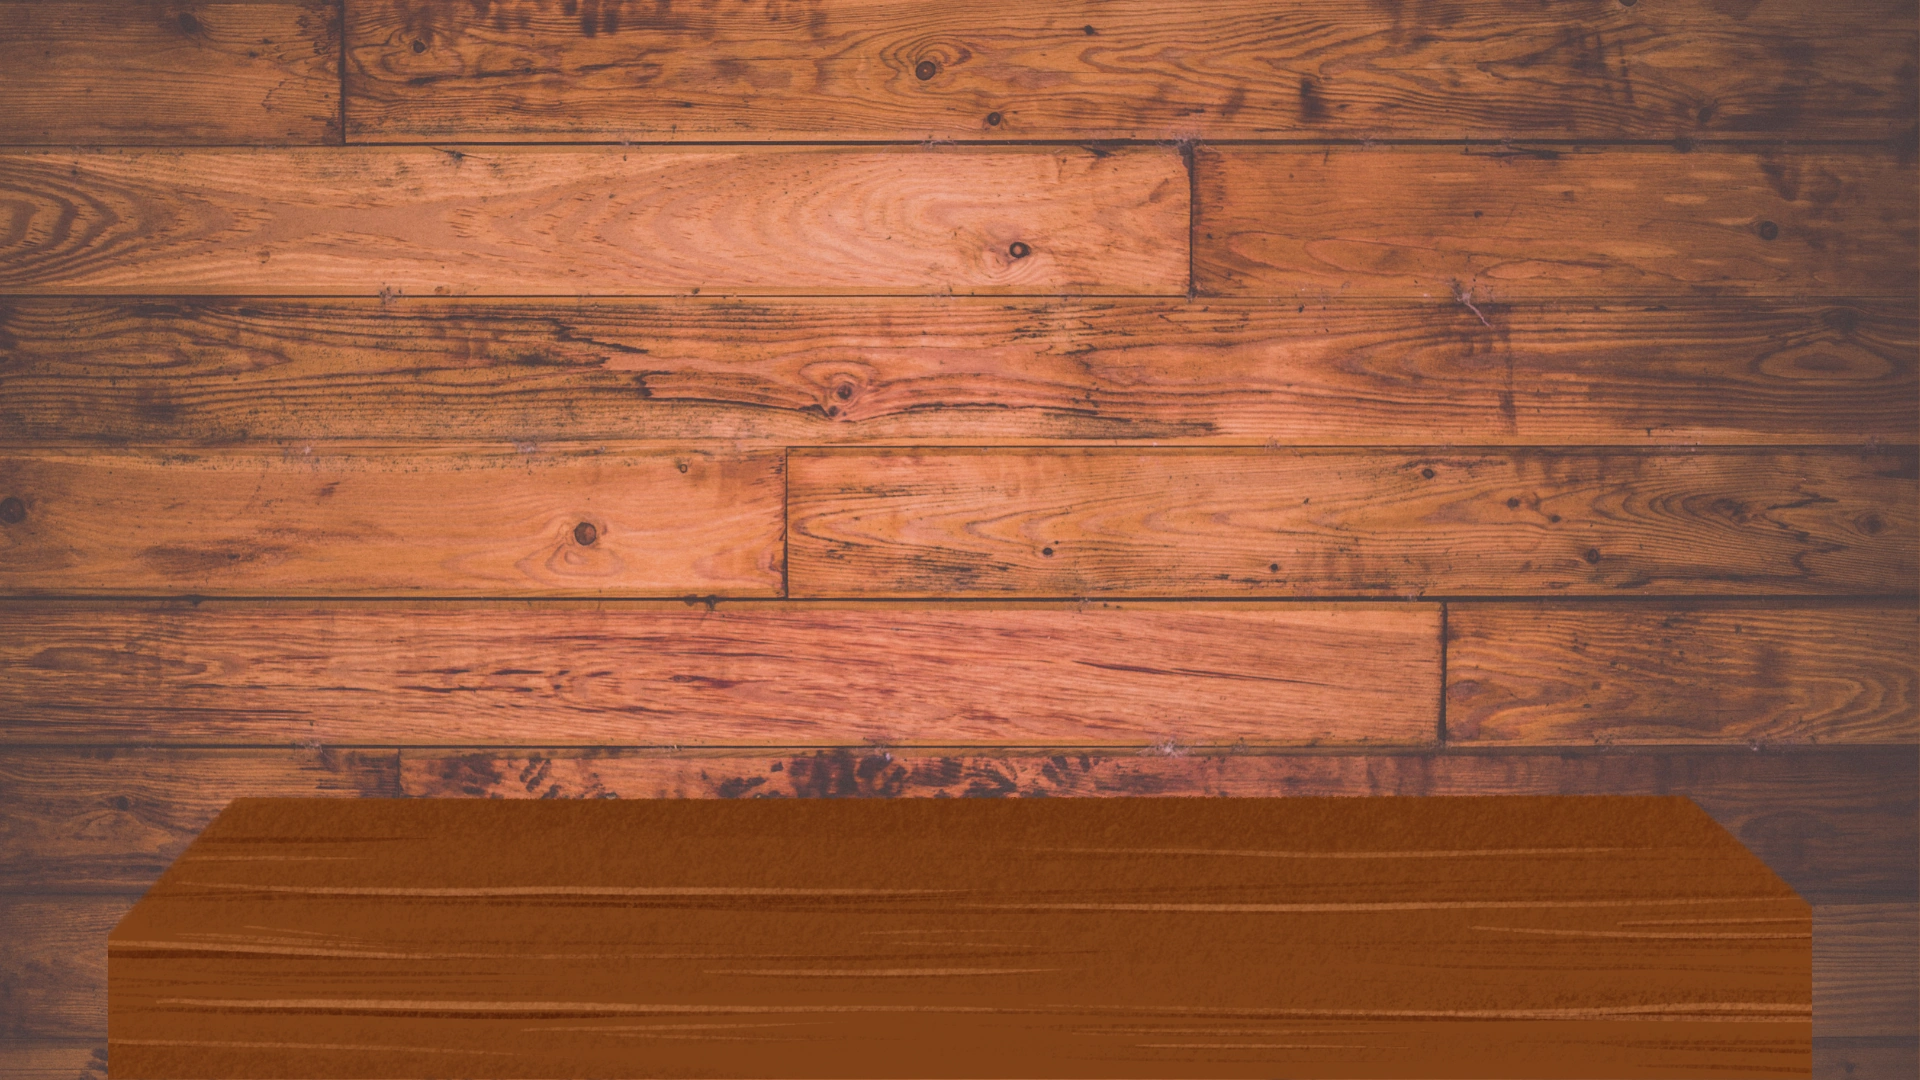
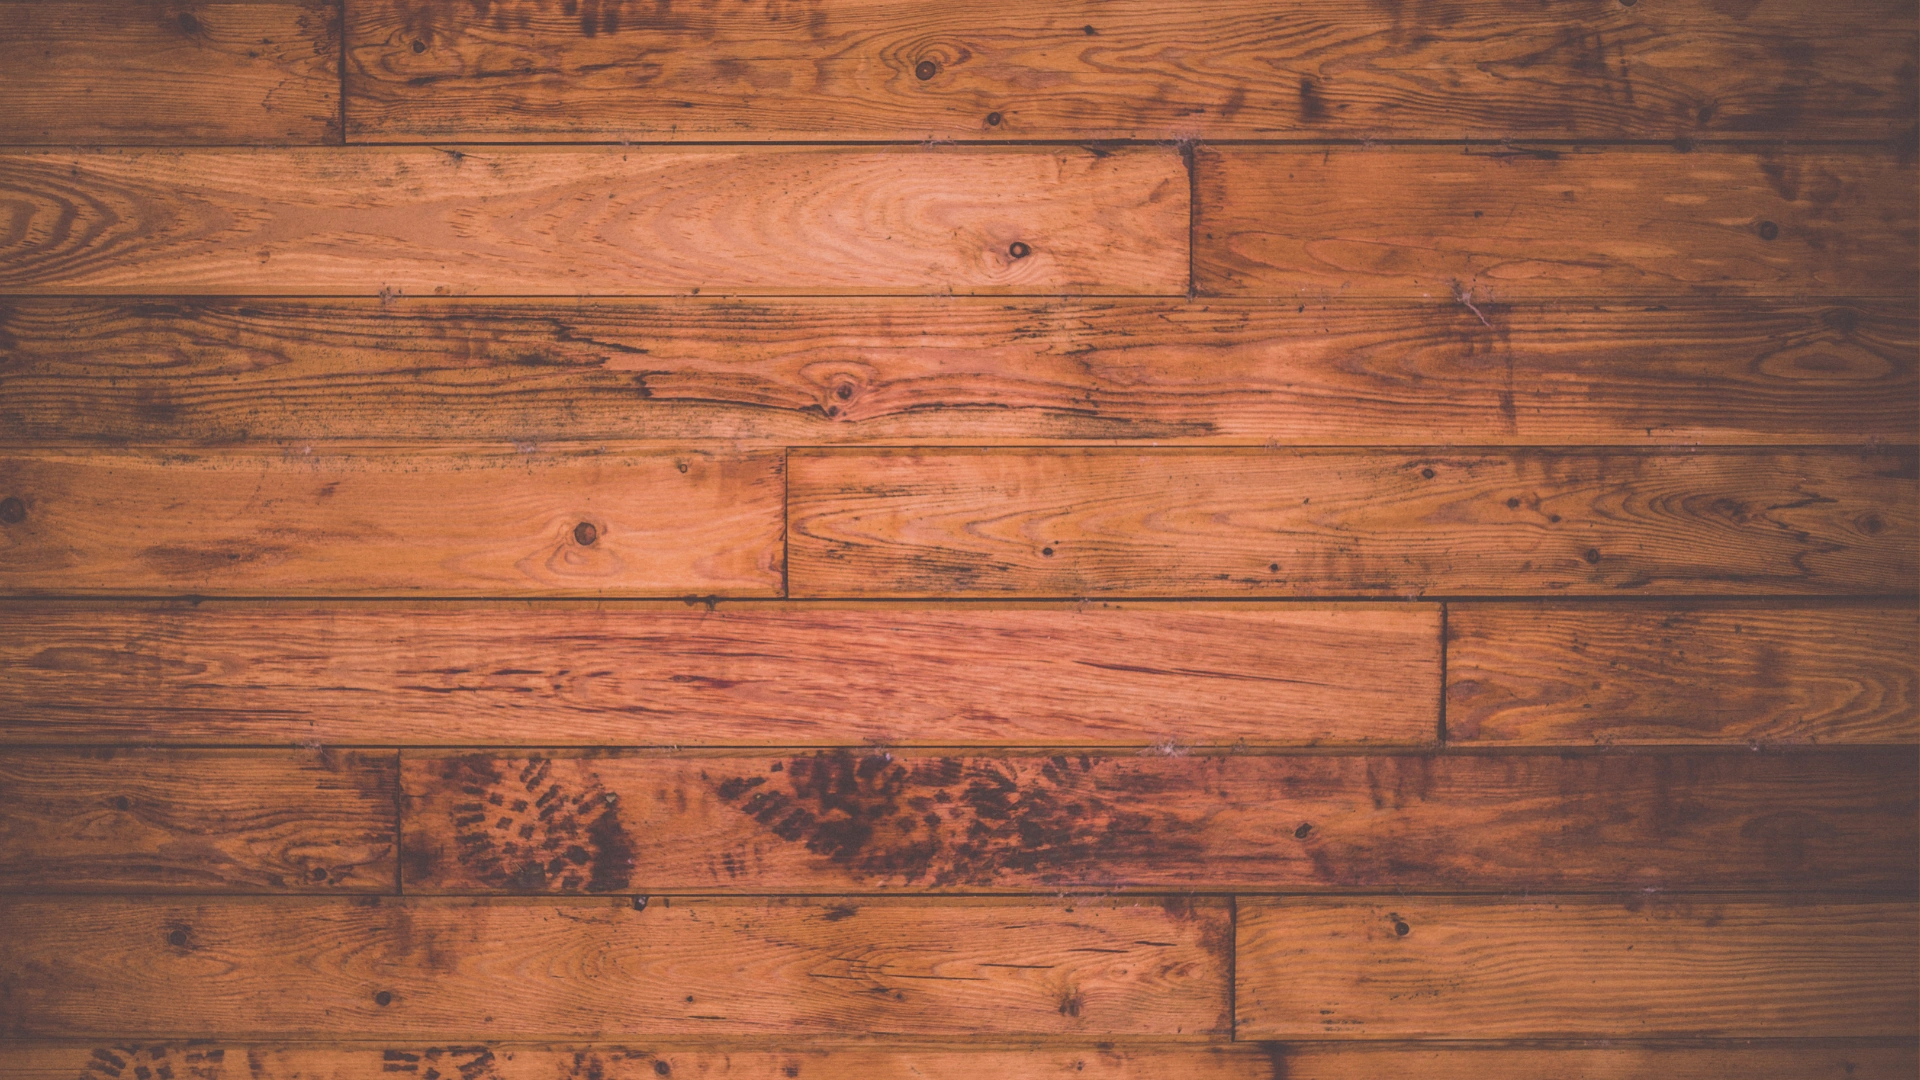
Style>Change main background

Changed region(s): [[0.0312, 0.7333, 0.9688, 1.0]]

diff --git a/assets/stylesheets/style.css b/assets/stylesheets/style.css
@@ -3,7 +3,7 @@ body {
     margin: 5px;
     background-image: url("../images/mobile_background.webp");
     background-position: center;
-    background-repeat: no-repeat;
+    background-repeat: repeat-y;
     background-size: cover;
 }
 
